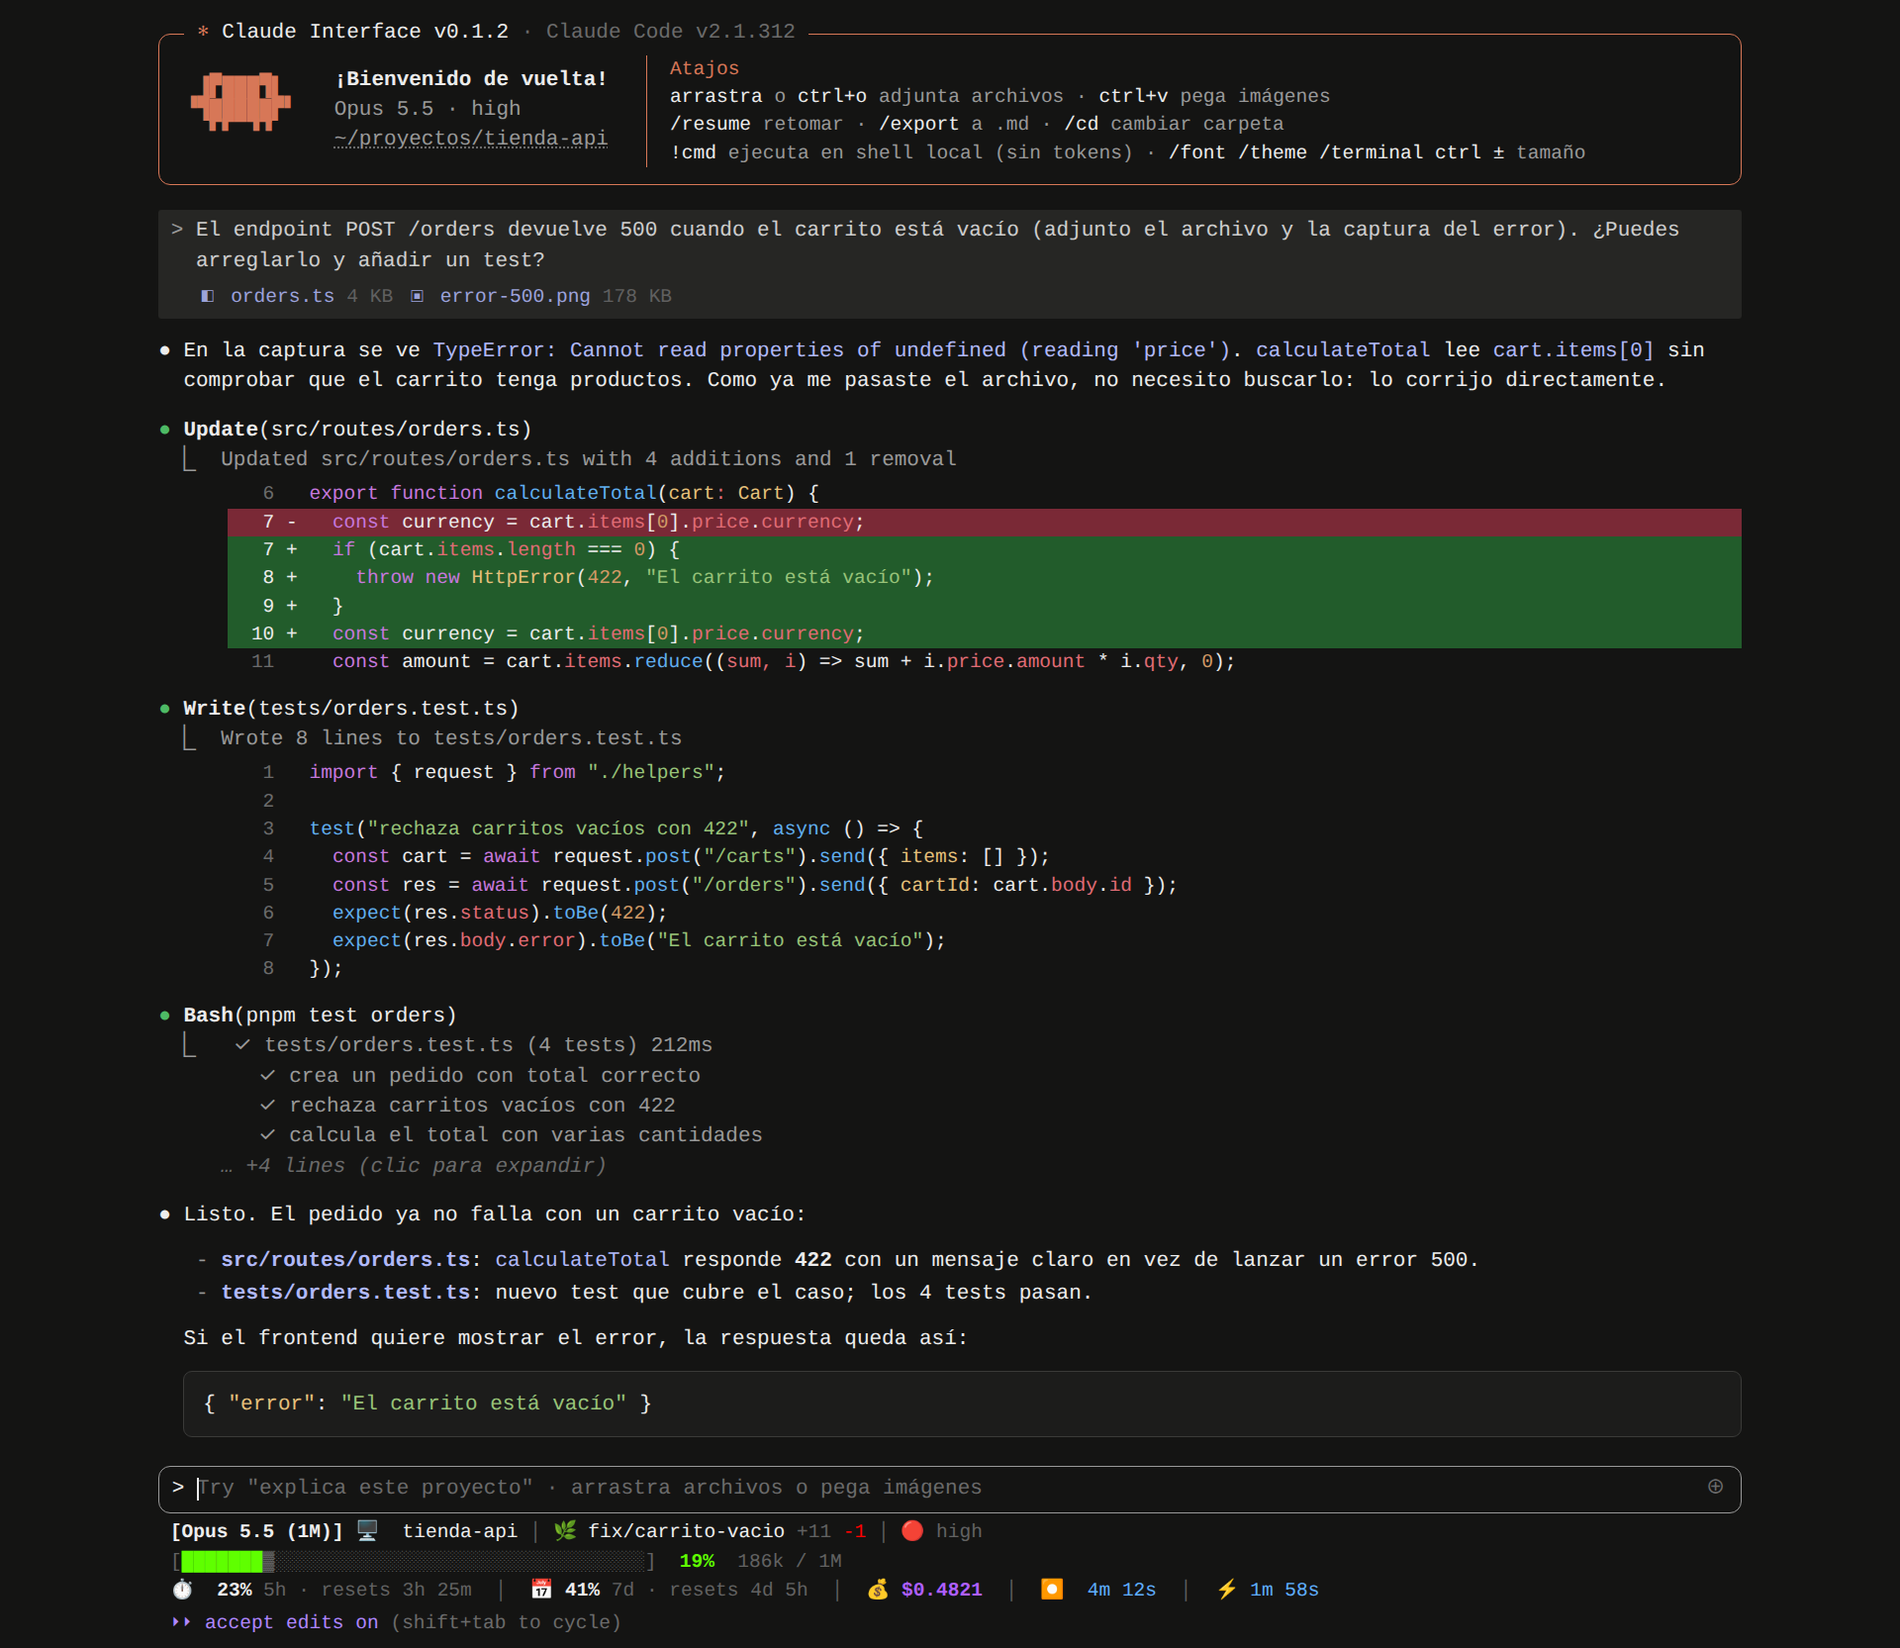
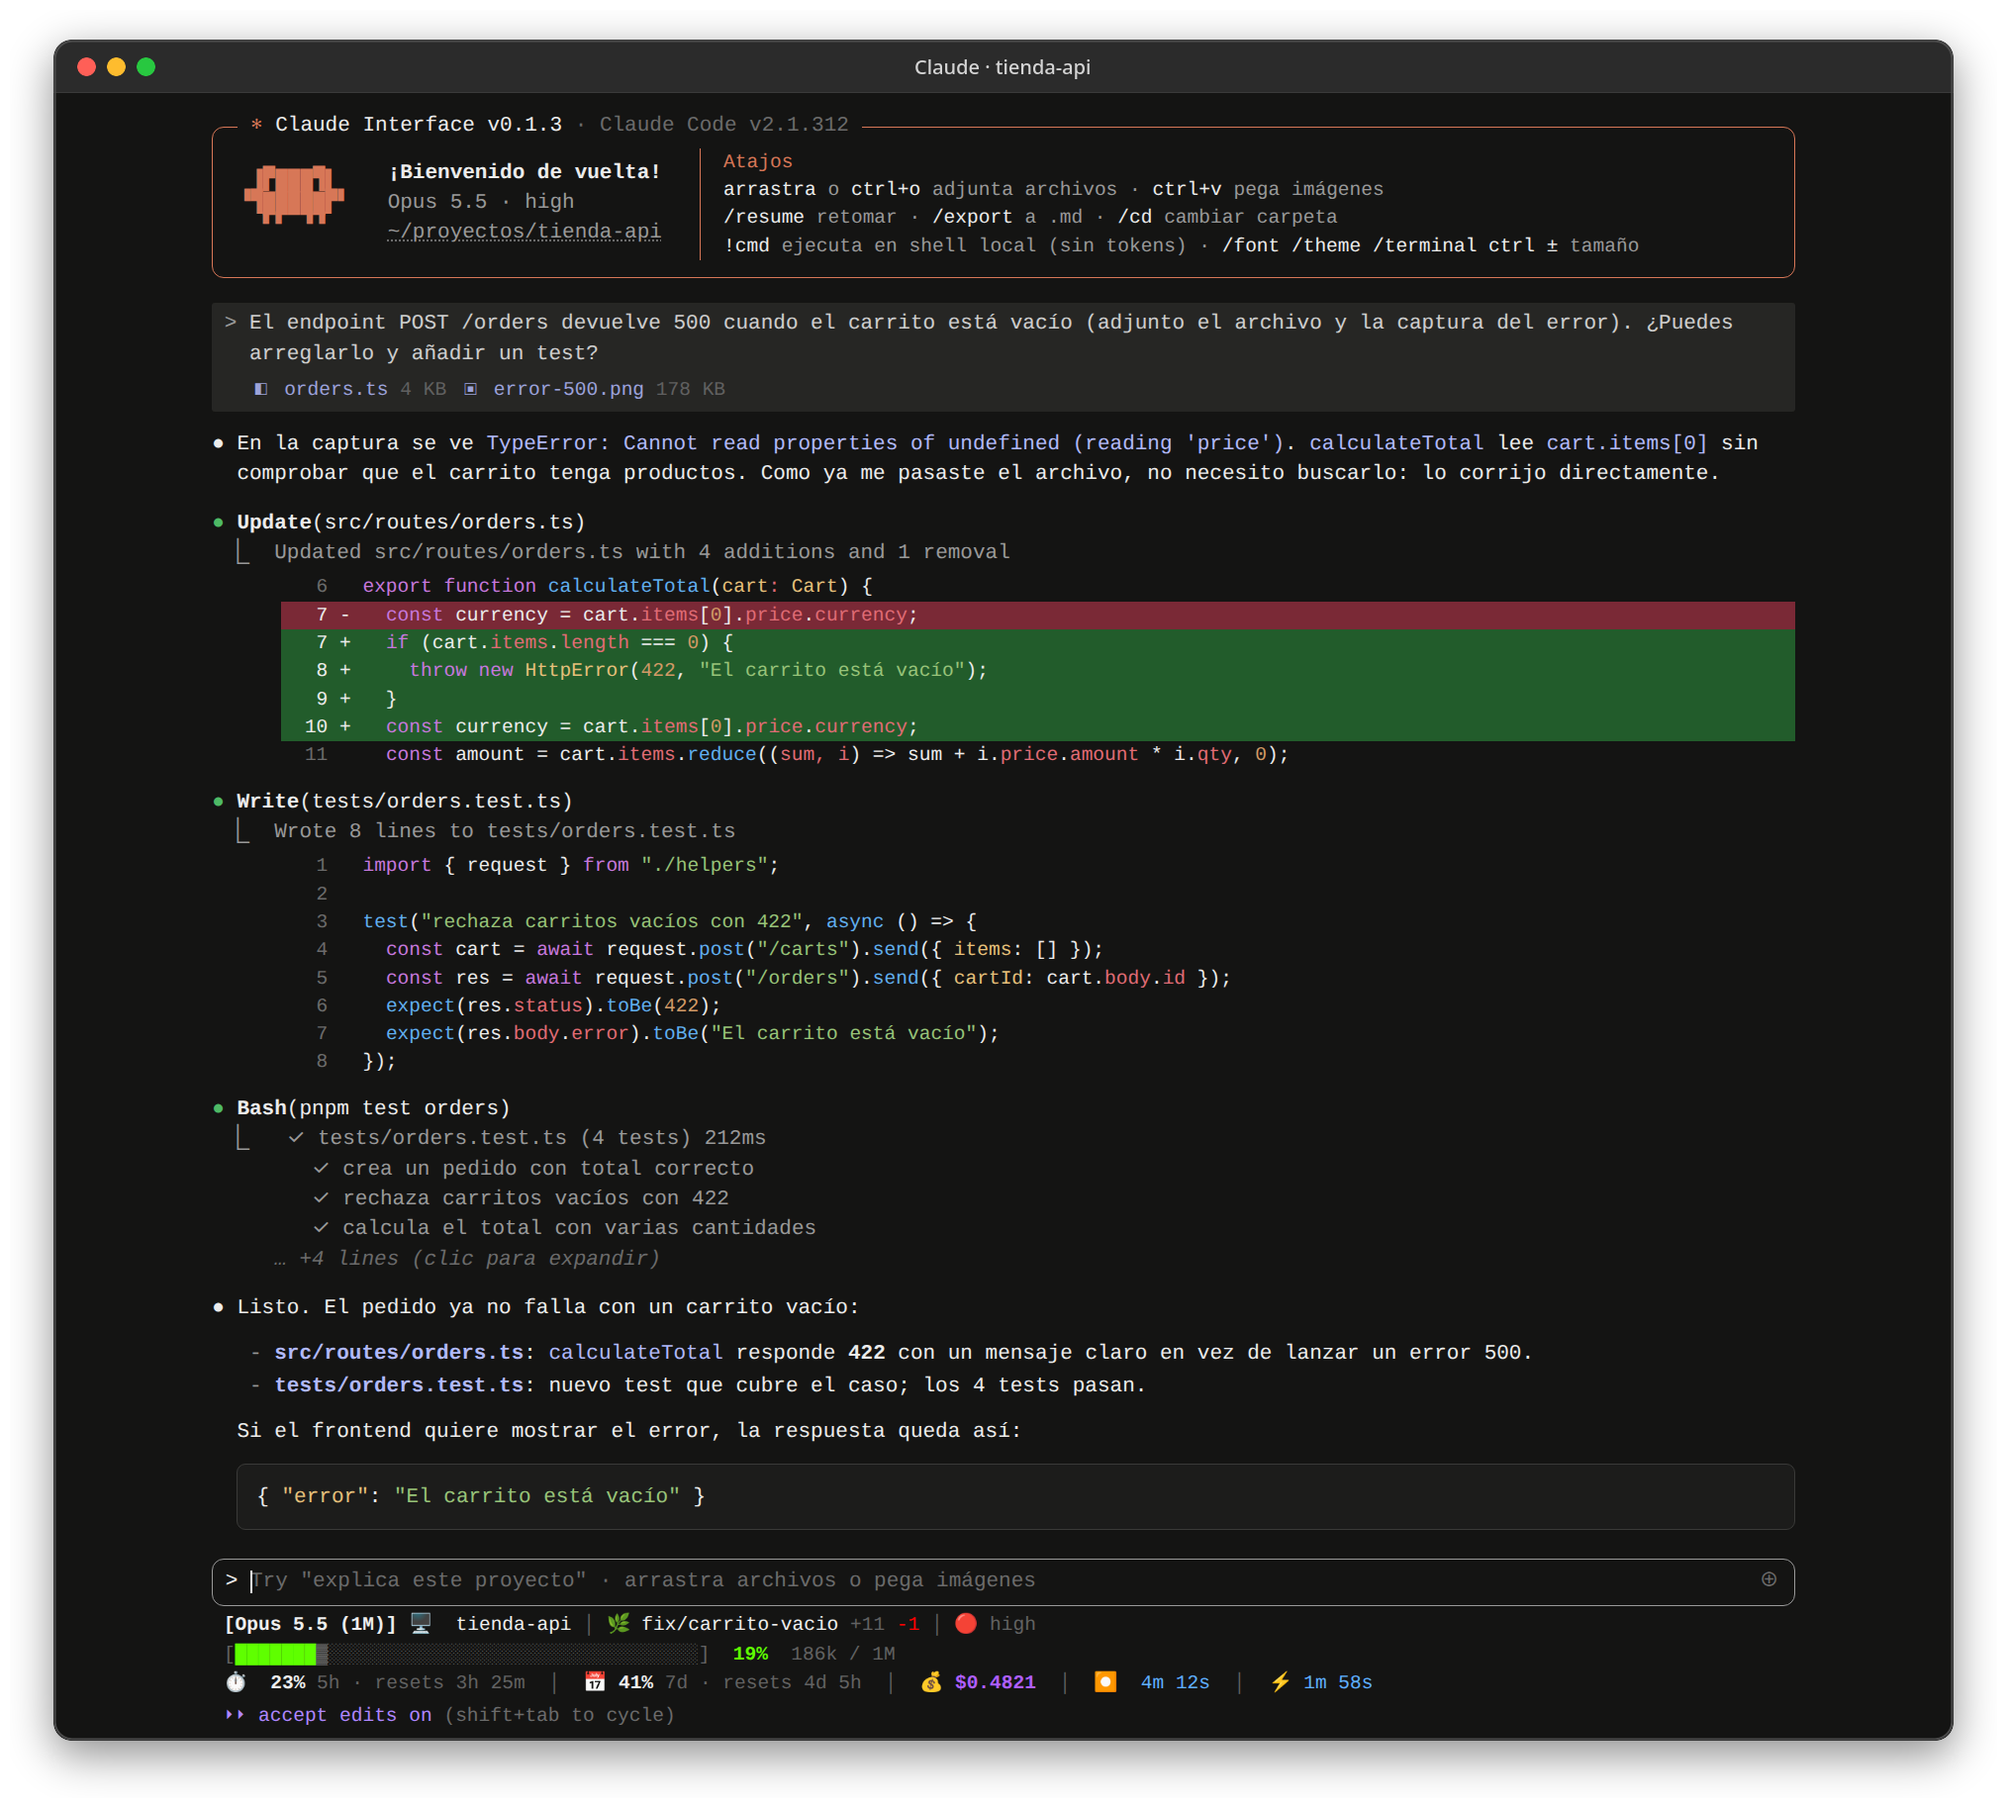
Capturas del README con marco de ventana
scripts/screenshots.sh captura cada escena de /demo con Chrome headless
y le añade barra de título, esquinas redondeadas y sombra. La demo toma
la versión de package.json.

Changed region(s): [[0.0, 0.0, 1.0, 1.0], [0.8125, 0.0625, 0.8438, 0.0937], [0.7188, 0.0625, 0.75, 0.0937]]

diff --git a/src/routes/demo/Demo.svelte b/src/routes/demo/Demo.svelte
@@ -6,6 +6,7 @@
   import { mockIPC, mockWindows } from "@tauri-apps/api/mocks";
   import { emit } from "@tauri-apps/api/event";
   import App from "../+page.svelte";
+  import { version } from "../../../package.json";
   import { STATUSLINE } from "./statusline";
   import { CWD, FIX_PROMPT, FIX_TURN, ORDERS_TS, PNG, PUSH_PROMPT, PUSH_TURN } from "./scenes";
 
@@ -38,7 +39,7 @@
           case "plugin:path|resolve_directory":
             return "/home/dev";
           case "plugin:app|version":
-            return "0.1.2";
+            return version;
           case "claude_version":
             return "2.1.312";
           case "user_settings":

diff --git a/README.md b/README.md
@@ -116,10 +116,10 @@ pnpm tauri build   # instaladores para el sistema actual
 Para publicar una versión, sube la versión en `package.json`, `src-tauri/Cargo.toml` y `src-tauri/tauri.conf.json`, y un tag `v*`. GitHub Actions genera los instaladores de Linux, Windows y macOS, publica el release (que las apps instaladas detectan como actualización) y sube copias con nombre fijo para los enlaces de descarga de este README:
 
 ```sh
-git tag v0.1.3 && git push origin v0.1.3
+git tag v0.1.4 && git push origin v0.1.4
 ```
 
-Las capturas del README se generan con datos de ejemplo desde la ruta de demo, que solo existe en desarrollo y simula Claude Code con los mocks de Tauri: con `pnpm dev` abierto, visita `http://localhost:1420/demo?scene=conversation` (o `permission`, `start`).
+Las capturas del README se generan con datos de ejemplo desde la ruta de demo, que solo existe en desarrollo y simula Claude Code con los mocks de Tauri (`http://localhost:1420/demo?scene=conversation`, `permission` o `start`). Con `pnpm dev` abierto, `scripts/screenshots.sh` las captura con Chrome headless y les añade el marco de ventana (requiere ImageMagick).
 
 El workflow necesita los secrets `TAURI_SIGNING_PRIVATE_KEY` y `TAURI_SIGNING_PRIVATE_KEY_PASSWORD` con la clave de firma del updater. Para generar instaladores en local con `pnpm tauri build` exporta esas mismas variables (o `TAURI_SIGNING_PRIVATE_KEY` con la ruta a la clave).
 
